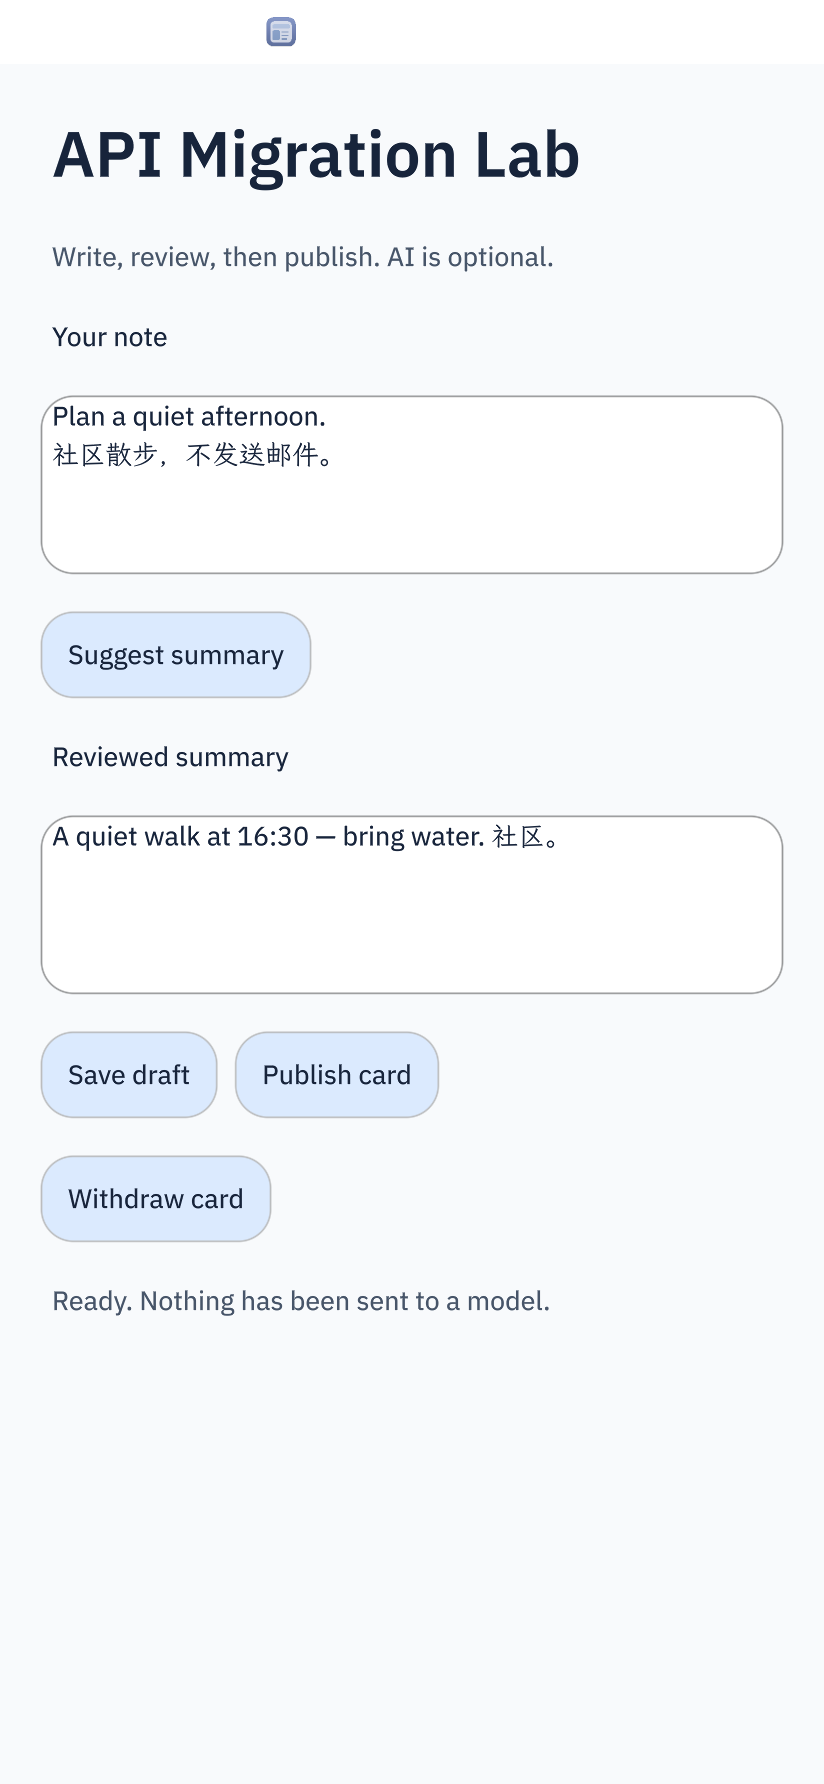
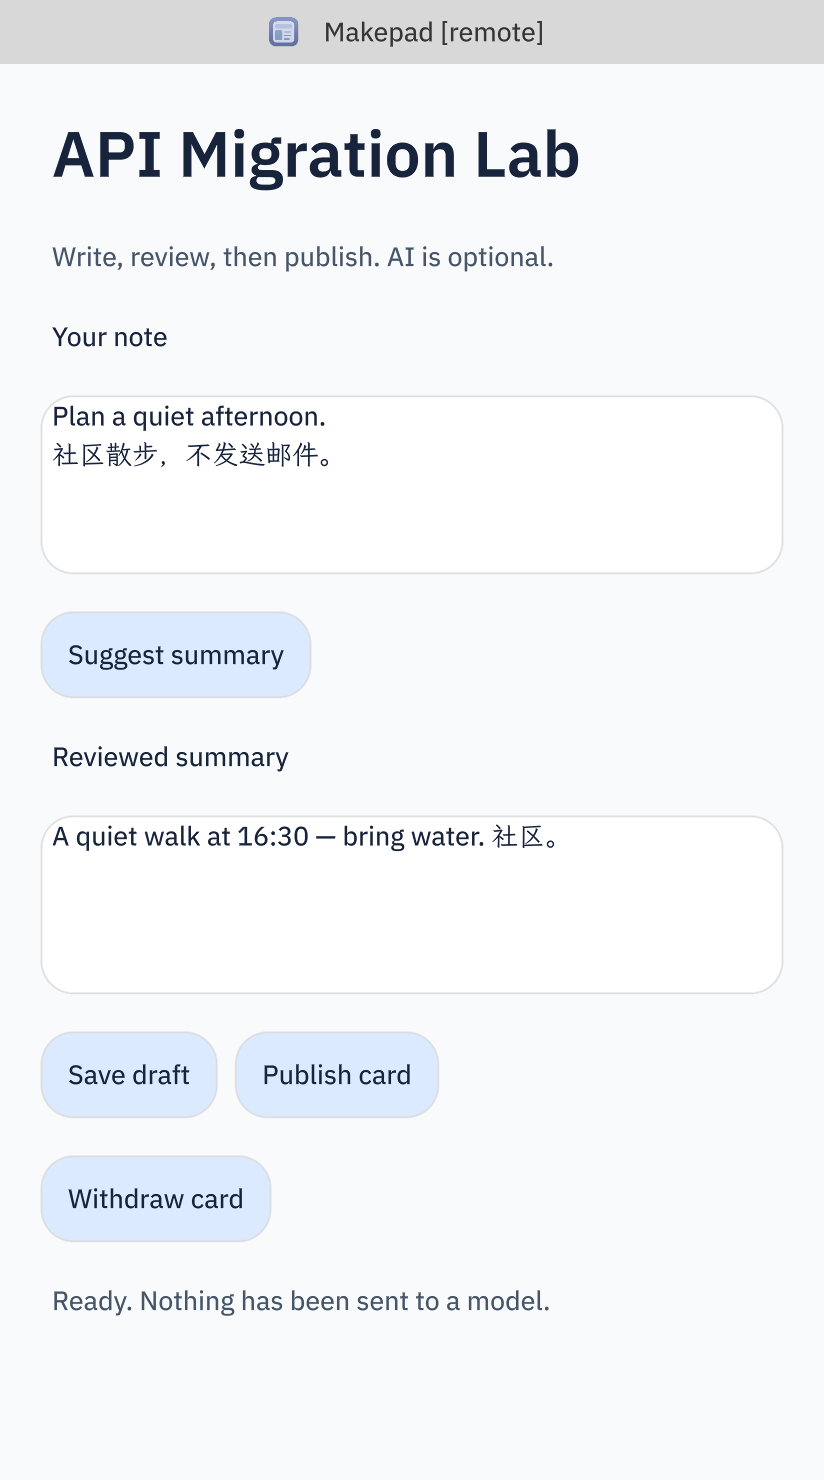
Record native migration acceptance and clarify unreleased audio APIs

diff --git a/docs/CAPABILITIES.zh-CN.md b/docs/CAPABILITIES.zh-CN.md
@@ -30,10 +30,25 @@
 | 能力 | 脚本得到什么 | 未申请时 |
 | --- | --- | --- |
 | `storage` | 应用自己的存储 jail，即按应用 ID 划分的私有数据目录：[`fs.*`](SCRIPT-API.md#storage-fs)、相机拍摄的内容，以及控件读取的本地文件（例如地图数据包）。 | 没有 jail。每个 `fs.*` 调用都报错 `storage not available in this context`，拍摄的内容不会保存，控件也读不到任何本地文件。 |
-| `camera` | `CameraPreview`：预览、拍照和录像。拍摄的内容以 `DCIM/IMG_<ms>.jpg` 和 `DCIM/VID_<ms>.mp4` 存入 jail，所以还要申请 `storage`。 | `CameraPreview` 拒绝运行：`this app was not granted the camera`。无论是否申请，都仍要经过操作系统自己的相机授权。 |
-| `microphone` | 相机录像中的声音。只有同时申请 `camera` 才有用。 | 录像没有声音。 |
+| `camera` | `CameraPreview`：预览，以及随平台而异的拍照／录像能力。拍摄的内容以 `DCIM/IMG_<ms>.jpg` 和 `DCIM/VID_<ms>.mp4` 存入 jail，所以还要申请 `storage`。 | `CameraPreview` 拒绝运行：`this app was not granted the camera`。无论是否申请，都仍要经过操作系统自己的相机授权。 |
+| `microphone` | 在支持相机录像的平台录制声音。尚未发布的 contract 1.10 宿主还提供独立录音，见下文。 | 无法采集麦克风；支持的相机录像不带声音。 |
+| `audio`（尚未发布的 contract 1.10） | 在前台播放有大小限制的本地音频文件；还需要 `storage`。 | 不能调用 `audio.play`。 |
 | `library` | 每次拍摄的内容还会提供给系统相册，其他应用可以在相册中看到。 | 拍摄的内容只留在应用的 jail 中。 |
 | `location` | 设备位置：`sys.gps(...)`，以及 `MapView` 的跟随视角。仍要经过操作系统的定位授权。 | `sys.gps("ok")` 读出 0，表示没有定位结果。 |
+
+**独立音频目前只在开发源码中实现，不是桌面 RC1 功能。** 尚未发布的 contract 1.10
+宿主在 macOS 和 Android 上实现 `microphone.record_start`、`microphone.record_status`、
+`microphone.record_stop` 和 `microphone.record_cancel`。录音需要 `microphone`、`storage`、
+宿主同意以及操作系统授权；它在应用 jail 内创建新的单声道 WAV 文件，最长 30 秒。
+独立的 `audio.play`、`audio.status` 和 `audio.stop` 需要 `audio` 与 `storage`。
+这些方法只能用于前台：离开应用会取消录音或停止播放。它们不提供转写、语音合成、
+系统音频采集或后台音乐流。真实麦克风／扬声器验收仍未完成；编码测试不能证明硬件行为。
+
+在上述兼容源码宿主上，声明 `requires: ["host-api-v1"]`，并在 `host_api.required`
+中列出所需方法，API 主版本为 1。contract 1.10 是 SDK 版本，不是
+`host-api-v1.10` 要求字符串。使用 `runtime.describe` 查询实际可用性；旧版准入器和宿主
+不会因为清单声明了能力就增加这些方法。相机录像仍是另一条路径：当前 OpenHarmony
+录像器支持它，Android 明确拒绝录像，macOS 没有相机录像器。独立音频不会改变这些限制。
 
 未申请 `storage` 时，`hub check` 的 `grants:` 行显示 `storage none`，准入检查还会对每个调用 `fs.*` 的脚本以及 `camera` 授权发出警告：
 

diff --git a/docs/CAPABILITIES.md b/docs/CAPABILITIES.md
@@ -40,10 +40,30 @@ service.
 | Capability | What the script gets | Without it |
 | --- | --- | --- |
 | `storage` | The app's own storage jail, one directory per app id: [`fs.*`](SCRIPT-API.md#storage-fs), camera captures, and local files a widget reads, such as a map archive. | No jail. Every `fs.*` call errors with `storage not available in this context`, a capture saves nothing, and a widget reads no local file. |
-| `camera` | `CameraPreview`: preview, photo and video. Captures land in the jail as `DCIM/IMG_<ms>.jpg` and `DCIM/VID_<ms>.mp4`, so request `storage` too. | `CameraPreview` refuses: `this app was not granted the camera`. The operating system's own camera prompt applies either way. |
-| `microphone` | Sound in camera videos. Useful only with `camera`. | Videos record without sound. |
+| `camera` | `CameraPreview`: preview and platform-dependent photo/video capture. Captures land in the jail as `DCIM/IMG_<ms>.jpg` and `DCIM/VID_<ms>.mp4`, so request `storage` too. | `CameraPreview` refuses: `this app was not granted the camera`. The operating system's own camera prompt applies either way. |
+| `microphone` | Sound where camera-video recording is supported. The unreleased contract 1.10 host also provides standalone recording; see below. | No microphone input; supported camera videos record without sound. |
+| `audio` (unreleased contract 1.10) | Foreground playback of a bounded local audio file; request `storage` too. | No `audio.play` access. |
 | `library` | Each capture is also offered to the system photo library, where other apps can see it. | Captures stay in the app's jail. |
 | `location` | The device position: `sys.gps(...)` and the follow camera of `MapView`. The operating system's location prompt still applies. | `sys.gps("ok")` reads 0, meaning no fix. |
+
+**Standalone audio is source-only, not a desktop RC1 feature.** The unreleased
+contract 1.10 host implements `microphone.record_start`, `microphone.record_status`,
+`microphone.record_stop` and `microphone.record_cancel` on macOS and Android.
+Recording needs `microphone` plus `storage`, host consent and the OS grant; it
+writes a new mono WAV file, up to 30 seconds, inside the app's jail. The separate
+`audio.play`, `audio.status` and `audio.stop` methods need `audio` plus `storage`.
+All are foreground-only: leaving the app cancels recording or stops playback.
+These methods do not provide transcription, speech synthesis, system-audio capture
+or background music streaming. Real microphone/speaker acceptance remains
+unverified; codec tests do not establish hardware behavior.
+
+On that compatible source host, declare `requires: ["host-api-v1"]` and the exact
+methods in `host_api.required` at API major version 1; contract 1.10 is the SDK
+version, not a `host-api-v1.10` requirement string. Use `runtime.describe` to
+check availability. Earlier gates/hosts do not gain these methods from a
+capability declaration. Camera video remains a separate path: the current
+OpenHarmony recorder supports it, Android explicitly refuses recording, and
+macOS has no camera-video recorder. Standalone audio does not change those limits.
 
 Without `storage`, the `grants:` line of `hub check` says `storage none`, and
 the gate warns about each script that calls `fs.*` and about a `camera` grant:

diff --git a/examples/api-migration-lab/README.md b/examples/api-migration-lab/README.md
@@ -25,12 +25,14 @@ curl -s http://127.0.0.1:8197/quit
 tools/octo check examples/api-migration-lab/bundle
 ```
 
-Automated native input and restart validation (supply your built binary paths;
-the output directory must not exist):
+Automated native input and restart validation with the companion OctoSense
+`app-tool-acceptance` example (or use `--card-host` for a preview host):
+Supply your built binary paths;
+the output directory must not exist:
 
 ```sh
 python3 examples/api-migration-lab/verify-native.py \
-  --card-host /path/to/card-host --hub /path/to/hub \
+  --host /path/to/app-tool-acceptance --hub /path/to/hub \
   --output /tmp/api-migration-lab-evidence
 ```
 
@@ -43,16 +45,18 @@ It neither contacts a model nor accesses any normal application profile.
 
 ## Evidence and limits
 
-Native macOS behavior checks passed with the cached `card-host` identified
-in [validation.json](validation.json): populated startup, empty-input refusal,
-editing, saving, both service-error paths and exact restart persistence.
+Native macOS checks passed on the current-runtime `app-tool-acceptance`
+example at OctoSense `77b7c6b5`: loaded state, empty-input refusal, editing,
+saving, both service-error paths and exact restart persistence. See
+[validation.json](validation.json) for binary, source, driver and image hashes.
+All three native Metal captures were inspected with system fonts disabled:
+English/Chinese text, inputs, actions and status are visible and fully painted.
 The committed [screenshot](bundle/screenshots/01-main.png) is the real
-post-restart native capture, inspected with system fonts disabled. Earlier
-captures from this older host contained incomplete repaint frames; those are
-not visual acceptance evidence. No UI-soak or performance score is claimed.
+post-restart capture. No UI-soak or performance score is claimed.
 
-`card-host` answers that no service serves `model` or `glance`. Successful
-inference, actual Glance publication/withdrawal, summary expansion, a public
-release and every phone platform remain **unverified**. Use a configured
-compatible OctoSense shell for those checks. This unsigned example is not an
-App Hub submission; no human publishing or visual approval is implied.
+The preview runner deliberately registers no model or Glance service; it
+returns the real unavailable-service reply. Successful inference, actual
+Glance publication/withdrawal, summary expansion, a public release and every
+phone platform remain **unverified**. Use a configured compatible OctoSense
+shell for those checks. This unsigned example is not an App Hub submission;
+no human publishing or visual approval is implied.

diff --git a/examples/api-migration-lab/README.zh-CN.md b/examples/api-migration-lab/README.zh-CN.md
@@ -22,11 +22,12 @@ curl -s http://127.0.0.1:8197/quit
 tools/octo check examples/api-migration-lab/bundle
 ```
 
-自动原生输入与重启验证（替换构建产物路径；输出目录必须不存在）：
+使用配套 OctoSense `app-tool-acceptance` 的自动原生输入与重启验证
+（也可用 `--card-host` 指定预览宿主；替换路径，输出目录必须不存在）：
 
 ```sh
 python3 examples/api-migration-lab/verify-native.py \
-  --card-host /path/to/card-host --hub /path/to/hub \
+  --host /path/to/app-tool-acceptance --hub /path/to/hub \
   --output /tmp/api-migration-lab-evidence
 ```
 
@@ -36,12 +37,13 @@ python3 examples/api-migration-lab/verify-native.py \
 
 ## 证据与限制
 
-macOS 原生行为检查已通过：启动内容、空输入拒绝、编辑、保存、两种服务错误和
-精确重启恢复；缓存 `card-host` 的身份见 [validation.json](validation.json)。
-提交的[截图](bundle/screenshots/01-main.png)是实际重启后捕获，关闭系统字体后已目视检查。
-该旧宿主更早的截图存在重绘不完整帧，不作为视觉验收证据。
-本记录不声明长时间 UX 测试或性能评分。
+在 OctoSense `77b7c6b5` 的当前运行时 `app-tool-acceptance` 上，macOS 原生检查
+已通过：加载状态、空输入拒绝、编辑、保存、两种服务错误和精确重启恢复。
+二进制、源码、驱动和图片哈希见 [validation.json](validation.json)。关闭系统字体后，
+三张原生 Metal 图均已检查：中英文、输入框、操作和状态可见，重绘完整。
+提交的[截图](bundle/screenshots/01-main.png)是实际重启后的捕获。
+不声明长时间 UX 测试或性能评分。
 
-`card-host` 真实返回没有 `model`、`glance` 服务。成功推理、实际 Glance 发布/撤回、
-摘要展开、公开发行与手机平台均**未验证**，应在配置好的兼容 OctoSense shell 中另测。
-这是未签名示例，不是 App Hub 上架申请，也不隐含人的发布或视觉批准。
+预览程序没有注册模型或 Glance 服务，返回真实的服务缺失结果。成功推理、实际
+Glance 发布/撤回、摘要展开、公开发行与手机平台均**未验证**，应在配置好的兼容
+OctoSense shell 中另测。这是未签名示例，不是 App Hub 上架申请，也不隐含人的发布或视觉批准。

diff --git a/examples/script-tool-state/README.zh-CN.md b/examples/script-tool-state/README.zh-CN.md
@@ -24,11 +24,16 @@ python3 examples/script-tool-state/verify-native.py \
 输出目录必须不存在。驱动先捕获真实预览作为临时应用包的商店截图，再重新 stamp。
 原生程序验证临时签名准入，绑定实际脚本工具，等待 instrument 看到初始化后的 UI
 才调用工具。检查精确返回结果、可见状态，再通过真实输入修改、重启并用工具读取保存值。
-还必须通过错误账号、未声明工具、非法参数与应用关闭后的拒绝检查。
+还必须通过错误账号、未声明工具、非法参数与工具所有者注销后的拒绝检查。
 
 签名私钥只存在内存，不产生公共发布者身份。所有数据虚构且隔离。原生调用进入点位于
 生产 peer/同意检查之后，不证明模型推理、用户允许代理运行、公开商店安装、外部效果或手机执行。
 失败保留记录，只清理自己启动的隐藏窗口。结果在输出目录 `result.json`，截图仍需目视检查。
 
-**验证状态：** 本变更中的原生程序构建和夹具验收尚待完成。
-预览或声明检查不能算工具执行。本示例不是已发布应用。
+**macOS 已验证：** OctoSense `77b7c6b5` 的 release 程序通过签名闸门、真实工具分发、
+精确状态与返回值、中英编辑、重启持久化和四类拒绝检查。关闭系统字体后，四张原生
+Metal 图已检查，内容与控件完整。见 [validation.json](validation.json)。
+
+两个私有变异版本也按预期失败：把处理器改回 `on_agent_tool` 返回
+`app_handler_missing`；删除 `script-tools-v1` 在工具绑定时被拒绝。未修改参赛者仓库。
+这仍是开发示例，不是上架应用，也不是模型或手机测试。

diff --git a/examples/script-tool-state/README.md b/examples/script-tool-state/README.md
@@ -31,7 +31,7 @@ verifies ephemeral signed admission, binds the actual script tools, and waits
 until the instrument has observed the loaded UI before dispatching. It checks
 the exact result and visible state, edits through real input, restarts and
 reads the retained value through the tool. It also requires wrong-account,
-undeclared-tool, invalid-input and closed-app refusals.
+undeclared-tool, invalid-input and unregistered-owner refusals.
 
 All signing keys live only in memory; no public publisher identity is
 created. All app state is synthetic and isolated. Native calls enter after
@@ -41,6 +41,13 @@ execution. The driver records failures and stops only its own hidden native
 processes. See `result.json` in the chosen evidence directory; screenshots
 must still be inspected.
 
-**Validation status:** native runner build and fixture acceptance are pending
-in this change. Do not count the preview or a declaration check as tool
-execution. This is a development example, not a published app.
+**Validated on macOS:** the release runner at OctoSense `77b7c6b5` passed the
+signed gate, actual tool dispatch, exact state/output, manual Unicode edit,
+restart persistence and all four refusal checks. All four native Metal
+screenshots were inspected; content and controls are fully rendered with
+system fonts disabled. See [validation.json](validation.json).
+
+Two private mutations also failed as required: renaming the hook to
+`on_agent_tool` returned `app_handler_missing`; removing `script-tools-v1`
+was rejected when binding the tools. No contestant repository was modified.
+This remains a development example, not a published app or a model/phone test.
